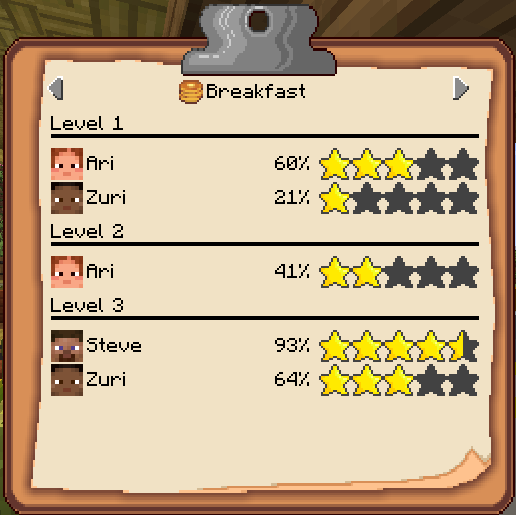
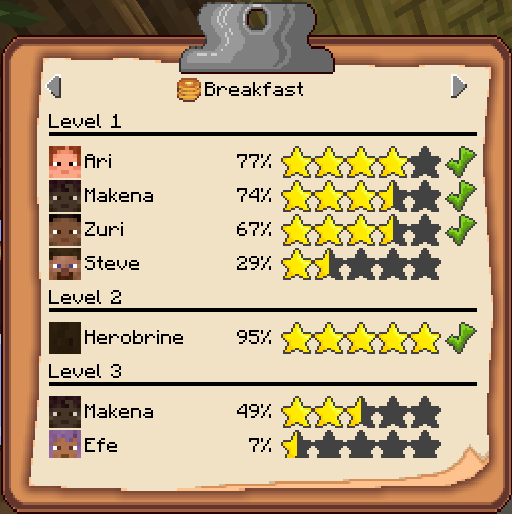
Added level passed checkmark to leaderboard

diff --git a/common/src/test/java/com/vikingkittens/mc/customers/client/customer/CustomerLeaderboardBlockScreenTest.java b/common/src/test/java/com/vikingkittens/mc/customers/client/customer/CustomerLeaderboardBlockScreenTest.java
@@ -52,27 +52,28 @@ class CustomerLeaderboardBlockScreenTest {
                                 1,
                                 new UUID(0L, 1L)
                         ),
-                        0.8F,
+                        new CustomerLeaderboardOpenPayload.Score(0.8F, true),
                         new CustomerLeaderboardScores.Key(
                                 breakfastPosition,
                                 CustomerSpawnerMode.BREAKFAST,
                                 2,
                                 new UUID(0L, 2L)
                         ),
-                        0.6F,
+                        new CustomerLeaderboardOpenPayload.Score(0.6F, false),
                         new CustomerLeaderboardScores.Key(
                                 dinnerPosition,
                                 CustomerSpawnerMode.DINNER,
                                 1,
                                 new UUID(0L, 3L)
                         ),
-                        0.4F
+                        new CustomerLeaderboardOpenPayload.Score(0.4F, false)
                 ));
 
         assertEquals(2, groups.size());
         assertEquals(breakfastPosition, groups.get(0).spawnerPosition());
         assertEquals(CustomerSpawnerMode.BREAKFAST, groups.get(0).spawnerMode());
         assertEquals(List.of(1, 2), groups.get(0).levels());
+        assertTrue(groups.get(0).scoresForLevel(1).getFirst().levelPassed());
         assertEquals(dinnerPosition, groups.get(1).spawnerPosition());
         assertEquals(CustomerSpawnerMode.DINNER, groups.get(1).spawnerMode());
     }
@@ -89,14 +90,14 @@ class CustomerLeaderboardBlockScreenTest {
                                 1,
                                 first
                         ),
-                        0.1F,
+                        new CustomerLeaderboardOpenPayload.Score(0.1F, false),
                         new CustomerLeaderboardScores.Key(
                                 BlockPos.ZERO,
                                 CustomerSpawnerMode.LUNCH,
                                 1,
                                 second
                         ),
-                        0.9F
+                        new CustomerLeaderboardOpenPayload.Score(0.9F, true)
                 ));
 
         assertEquals(
@@ -117,7 +118,7 @@ class CustomerLeaderboardBlockScreenTest {
                                 1,
                                 new UUID(0L, 1L)
                         ),
-                        1.0F
+                        new CustomerLeaderboardOpenPayload.Score(1.0F, true)
                 ));
         List<CustomerLeaderboardBlockScreen.ScoreGroup> twoDinnerGroups =
                 CustomerLeaderboardBlockScreen.getScoreGroups(Map.of(
@@ -127,14 +128,14 @@ class CustomerLeaderboardBlockScreenTest {
                                 1,
                                 new UUID(0L, 1L)
                         ),
-                        1.0F,
+                        new CustomerLeaderboardOpenPayload.Score(1.0F, true),
                         new CustomerLeaderboardScores.Key(
                                 new BlockPos(1, 64, 1),
                                 CustomerSpawnerMode.DINNER,
                                 1,
                                 new UUID(0L, 2L)
                         ),
-                        0.4F
+                        new CustomerLeaderboardOpenPayload.Score(0.4F, false)
                 ));
 
         assertFalse(CustomerLeaderboardBlockScreen.shouldShowSpawnerPosition(

diff --git a/common/src/main/java/com/vikingkittens/mc/customers/client/customer/CustomerLeaderboardBlockScreen.java b/common/src/main/java/com/vikingkittens/mc/customers/client/customer/CustomerLeaderboardBlockScreen.java
@@ -52,6 +52,7 @@ public class CustomerLeaderboardBlockScreen extends Screen {
     private static final ResourceLocation HALF_STAR = texture("halfstar_small");
     private static final ResourceLocation NO_STAR = texture("nostar_small");
     private static final ResourceLocation STAR = texture("star_small");
+    private static final ResourceLocation CHECKMARK = texture("checkmark_small");
 
     private final List<ScoreGroup> groups;
     private int currentGroupIndex;
@@ -221,8 +222,8 @@ public class CustomerLeaderboardBlockScreen extends Screen {
                 false
         );
 
-        int starsX = x + CONTENT_WIDTH - STAR_COUNT * ICON_SIZE;
-        String percentage = Math.round(score.score() * 100.0F) + "%";
+        int starsX = x + CONTENT_WIDTH - STAR_COUNT * ICON_SIZE - 18;
+        String percentage = Math.round(score.value() * 100.0F) + "%";
         graphics.drawString(
                 font,
                 percentage,
@@ -233,8 +234,21 @@ public class CustomerLeaderboardBlockScreen extends Screen {
         );
         for (int index = 0; index < STAR_COUNT; index++) {
             graphics.blit(
-                    getStarTexture(score.score(), index),
+                    getStarTexture(score.value(), index),
                     starsX + index * ICON_SIZE,
+                    getRowElementY(y, ICON_SIZE),
+                    0,
+                    0,
+                    ICON_SIZE,
+                    ICON_SIZE,
+                    ICON_SIZE,
+                    ICON_SIZE
+            );
+        }
+        if (score.levelPassed()) {
+            graphics.blit(
+                    CHECKMARK,
+                    starsX + STAR_COUNT * ICON_SIZE + 2,
                     getRowElementY(y, ICON_SIZE),
                     0,
                     0,
@@ -277,7 +291,7 @@ public class CustomerLeaderboardBlockScreen extends Screen {
         };
     }
 
-    static List<ScoreGroup> getScoreGroups(Map<CustomerLeaderboardScores.Key, Float> scores) {
+    static List<ScoreGroup> getScoreGroups(Map<CustomerLeaderboardScores.Key, CustomerLeaderboardOpenPayload.Score> scores) {
         Map<ScoreGroupKey, Map<Integer, List<ScoreEntry>>> entriesByGroup = new HashMap<>();
         scores.forEach((key, score) -> entriesByGroup
                 .computeIfAbsent(
@@ -285,11 +299,11 @@ public class CustomerLeaderboardBlockScreen extends Screen {
                         ignored -> new HashMap<>()
                 )
                 .computeIfAbsent(key.level(), ignored -> new ArrayList<>())
-                .add(new ScoreEntry(key.playerId(), score)));
+                .add(new ScoreEntry(key.playerId(), score.value(), score.levelPassed())));
         return entriesByGroup.entrySet().stream()
                 .map(entry -> {
                     entry.getValue().values().forEach(entries -> entries.sort(
-                            Comparator.comparing(ScoreEntry::score)
+                            Comparator.comparing(ScoreEntry::value)
                                     .reversed()
                                     .thenComparing(ScoreEntry::playerId)
                     ));
@@ -318,7 +332,7 @@ public class CustomerLeaderboardBlockScreen extends Screen {
         return position.getX() + ", " + position.getY() + ", " + position.getZ();
     }
 
-    record ScoreEntry(UUID playerId, float score) {}
+    record ScoreEntry(UUID playerId, float value, boolean levelPassed) {}
 
     record ScoreGroup(
             BlockPos spawnerPosition,

diff --git a/common/src/main/java/com/vikingkittens/mc/customers/customer/CustomerLeaderboardBlockEntity.java b/common/src/main/java/com/vikingkittens/mc/customers/customer/CustomerLeaderboardBlockEntity.java
@@ -1,7 +1,9 @@
 package com.vikingkittens.mc.customers.customer;
 
 import java.util.Comparator;
+import java.util.HashMap;
 import java.util.HashSet;
+import java.util.Map;
 import java.util.Set;
 import java.util.UUID;
 
@@ -94,10 +96,20 @@ public class CustomerLeaderboardBlockEntity extends BlockEntity {
             addFakeScores();
         }
         */
-        CustomersServices.network().sendToPlayer(
-                player,
-                new CustomerLeaderboardOpenPayload(worldPosition, scores.scores())
-        );
+        Map<CustomerLeaderboardScores.Key, CustomerLeaderboardOpenPayload.Score> payloadScores = new HashMap<>();
+        scores.scores().forEach((key, score) -> {
+            boolean levelPassed = false;
+            BlockEntity blockEntity = level.getBlockEntity(key.spawnerPosition());
+            if (blockEntity instanceof CustomerSpawnerBlockEntity spawner) {
+                levelPassed = score >= spawner.getLevelRequiredScore(key.level() - 1);
+            } else if (key.playerId().getMostSignificantBits() == 0L
+                    && key.playerId().getLeastSignificantBits() >= 0L
+                    && key.playerId().getLeastSignificantBits() < 7L) {
+                levelPassed = score >= 0.6F;
+            }
+            payloadScores.put(key, new CustomerLeaderboardOpenPayload.Score(score, levelPassed));
+        });
+        CustomersServices.network().sendToPlayer(player, new CustomerLeaderboardOpenPayload(worldPosition, payloadScores));
     }
 
     @Override

diff --git a/common/src/main/java/com/vikingkittens/mc/customers/customer/CustomerLeaderboardOpenPayload.java b/common/src/main/java/com/vikingkittens/mc/customers/customer/CustomerLeaderboardOpenPayload.java
@@ -13,8 +13,10 @@ import com.vikingkittens.mc.customers.Customers;
 
 public record CustomerLeaderboardOpenPayload(
         BlockPos leaderboardPos,
-        Map<CustomerLeaderboardScores.Key, Float> scores
+        Map<CustomerLeaderboardScores.Key, Score> scores
 ) implements CustomPacketPayload {
+    public record Score(float value, boolean levelPassed) {}
+
     public static final Type<CustomerLeaderboardOpenPayload> TYPE = new Type<>(
             ResourceLocation.fromNamespaceAndPath(Customers.MODID, "customer_leaderboard_open")
     );
@@ -35,7 +37,10 @@ public record CustomerLeaderboardOpenPayload(
                     target.writeVarInt(key.level());
                     target.writeUUID(key.playerId());
                 },
-                FriendlyByteBuf::writeFloat
+                (target, score) -> {
+                    target.writeFloat(score.value());
+                    target.writeBoolean(score.levelPassed());
+                }
         );
     }
 
@@ -50,7 +55,7 @@ public record CustomerLeaderboardOpenPayload(
                                 source.readVarInt(),
                                 source.readUUID()
                         ),
-                        FriendlyByteBuf::readFloat
+                        source -> new Score(source.readFloat(), source.readBoolean())
                 )
         );
     }

diff --git a/common/src/main/java/com/vikingkittens/mc/customers/client/customer/CustomerShiftFinishedScreen.java b/common/src/main/java/com/vikingkittens/mc/customers/client/customer/CustomerShiftFinishedScreen.java
@@ -52,6 +52,9 @@ public class CustomerShiftFinishedScreen extends Screen {
     private static final SoundEvent BONK_SOUND = SoundEvent.createVariableRangeEvent(
             ResourceLocation.fromNamespaceAndPath(Customers.MODID, "bonk")
     );
+    private static final SoundEvent TADA_SOUND = SoundEvent.createVariableRangeEvent(
+            ResourceLocation.fromNamespaceAndPath(Customers.MODID, "tada")
+    );
 
     private static final TextureC RECEIPT_TEXTURE = texture("reciept.png");
     private static final TextureC STAR_TEXTURE = texture("star.png");
@@ -192,7 +195,7 @@ public class CustomerShiftFinishedScreen extends Screen {
         }
         long elapsedMillis = Util.getMillis() - animationStartMillis;
         if (!checkmarkSoundPlayed && elapsedMillis >= CHECKMARK_START_MILLIS) {
-            Minecraft.getInstance().getSoundManager().play(SimpleSoundInstance.forUI(BLING_SOUND, 1.0F));
+            Minecraft.getInstance().getSoundManager().play(SimpleSoundInstance.forUI(TADA_SOUND, 1.0F));
             checkmarkSoundPlayed = true;
         }
         int checkmarkX = leftPos + (IMAGE_WIDTH - STAR_SIZE) / 2;

diff --git a/README.md b/README.md
@@ -596,6 +596,7 @@ activity appears with redstone as its profile image:
 
 When a Customer Leaderboard is within the configured distance, it saves each participating
 player's best completed shift percentage for that Customer Spawner, mode, and level.
+Completed levels are marked with a checkmark on the Customer Leaderboard.
 
 ![scoreboard.png](screenshots/scoreboard.png)
 
